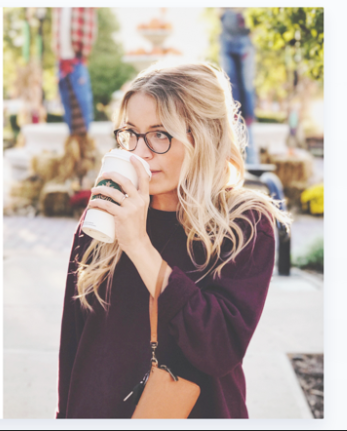
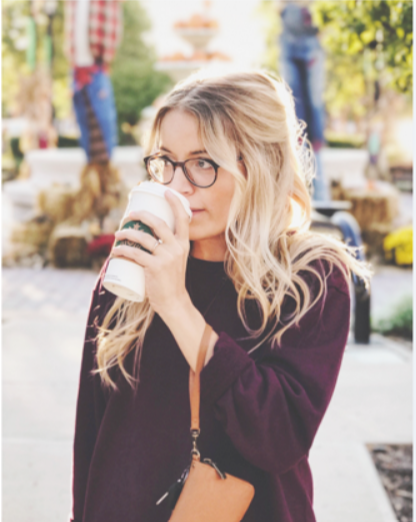
edited

diff --git a/style.css b/style.css
@@ -12,12 +12,13 @@ body {
     display: flex;
     margin: auto;
     background-color: #ffff;
-    width: 100%;
+    width: 80%;
     justify-content: center;
     align-items: center;
     flex-direction: 1;
+    flex-wrap: wrap;
     box-shadow: 0 0 10px rgba(0, 0, 0, 0.8);
-    margin-top: 50px;
+    margin-top: 90px;
 }
 
 .log-in {
@@ -37,7 +38,7 @@ h2 {
 }
 
 .lady-image {
-    width: 50%;
+    width: 618px;
     height: 80vh;
     margin-left: 20px;
 }
@@ -101,7 +102,7 @@ span {
         margin-left: 90px;
     }
     .lady-image {
-        width: 50%;
+        width: 250px;
         height: 70vh;
         margin-top: -40px;
     }
